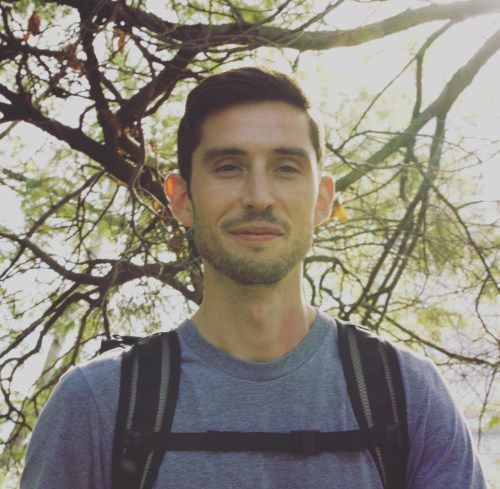
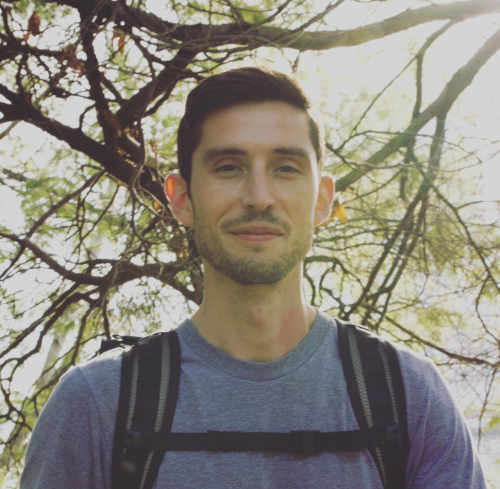
Optimized site performance compressed images

diff --git a/src/ProjectsCarousel.js b/src/ProjectsCarousel.js
@@ -18,8 +18,9 @@ class ProjectsCarousel extends React.Component {
       infinite: true,
       slidesToShow: 1,
       slidesToScroll: 1,
+      lazyLoad: true,
       pauseOnHover: true,
-      autoplaySpeed: 6000,
+      autoplaySpeed: 9000,
       dots: true,
       adaptiveWidth: true, 
       responsive: [
@@ -34,21 +35,21 @@ class ProjectsCarousel extends React.Component {
       <Slider {...settings}>
         <div className='Slider'>
           <a href="https://andrewjc88.github.io/myreads-app/">
-            <img className='SliderImg' src={images["MyReads.png"]} alt="My Reads app"/>
+            <img className='SliderImg' src={images["MyReads.jpg"]} alt="My Reads app"/>
           </a>
           <p className="SliderText">Built a responsive web application that allows users to select and categorize books into a virtual bookshelf. Leveraged React to support a dynamic user interface that interacts with an API server and client library.</p>
           <a href="https://github.com/andrewjc88/myreads-app">github</a>
         </div>
         <div className='Slider'>
           <a href="https://andrewjc88.github.io/DEAL_QUEST/">
-            <img className='SliderImg' src={images["DealQuest.png"]} alt="DealQuest app"/>
+            <img className='SliderImg' src={images["DealQuest.jpg"]} alt="DealQuest app"/>
           </a>
           <p className="SliderText">A single-page web application, built using the Knockout.js, Zurb Foundation, Google maps API and groupon API, that displays a Map of an area and various points of interest. Users can search all Groupon deals by city or zip coade.</p>
           <a href="https://github.com/andrewjc88/DEAL_QUEST/">github</a>
         </div>
         <div className='Slider'>
           <a href="https://andrewjc88.github.io/classicArcadeGame/">
-            <img className='SliderImg' src={images["ClassicArcade.png"]} alt="Classic Aracde game"/>
+            <img className='SliderImg' src={images["ClassicArcade.jpg"]} alt="Classic Aracde game"/>
           </a>
           <p className="SliderText">An HTML5 Canvas powered video game, developed using the best practices in Object Oriented JavaScript.</p>
           <a href="https://github.com/andrewjc88/classicArcadeGame/">github</a>

diff --git a/src/App.js b/src/App.js
@@ -22,9 +22,9 @@ class App extends Component {
   render() {
 
     AOS.init({
-      duration: 500,
-      easing: 'ease-in-sine',
-      delay: 200,
+      duration: 1000,
+      easing: 'ease-in',
+      delay: 0,
     });
 
 
@@ -80,9 +80,10 @@ class App extends Component {
           </div>
           </div>
         </div>
+        <div id="pageBottom"></div>
         {this.state.clicked === false && 
           <a 
-            href="#contact" 
+            href="#pageBottom" 
             onClick={this.contactClicked}
             className="Contact-Button {this.state.clicked}">
             Contact

diff --git a/src/App.css b/src/App.css
@@ -73,10 +73,11 @@ a:active {
   box-shadow:  3px 3px 5px rgba(0, 0, 0, 0.185);
   background-color: rgb(235, 69, 63);
   color: white;
+  bottom: 1.3em;
 }
 
 .Contact-Button:active {
-  bottom: 1.3em;
+  bottom: 1.6em;
 }
 
 .App {
@@ -160,17 +161,12 @@ a:active {
 }
 
 .SliderImg {
+  
   width: 100%;
   padding: 1em 0em;
   margin: auto;
-  /* height: 5em; */
-
   transition: all .3s ease-in-out;
 
-}
-
-.SliderImg:hover {
-  filter: blur(1px) grayscale(50%);
 }
 
 .RecCarousel {

diff --git a/src/recCarousel.js b/src/recCarousel.js
@@ -19,13 +19,15 @@ class RecCarousel extends React.Component {
       slidesToShow: 1,
       slidesToScroll: 1,
       pauseOnHover: true,
-      autoplaySpeed: 6000,
+      autoplaySpeed: 9000,
+      lazyLoad: true,
       dots: true,
       adaptiveWidth: true, 
       responsive: [
         { breakpoint: 670, settings:{
           slidesToShow: 1,
           arrows: false,
+          autoplaySpeed: 12000,
         }}
       ]
     };

diff --git a/src/LogoCarousel.js b/src/LogoCarousel.js
@@ -22,7 +22,7 @@ class LogoCarousel extends React.Component {
       slidesToScroll: 1,
       variableWidth: true,
       adaptiveWidth: true,
-      lazyLoad: false,
+      lazyLoad: true,
       swipe: true,
       responsive: [
         { breakpoint: 670, settings:{
